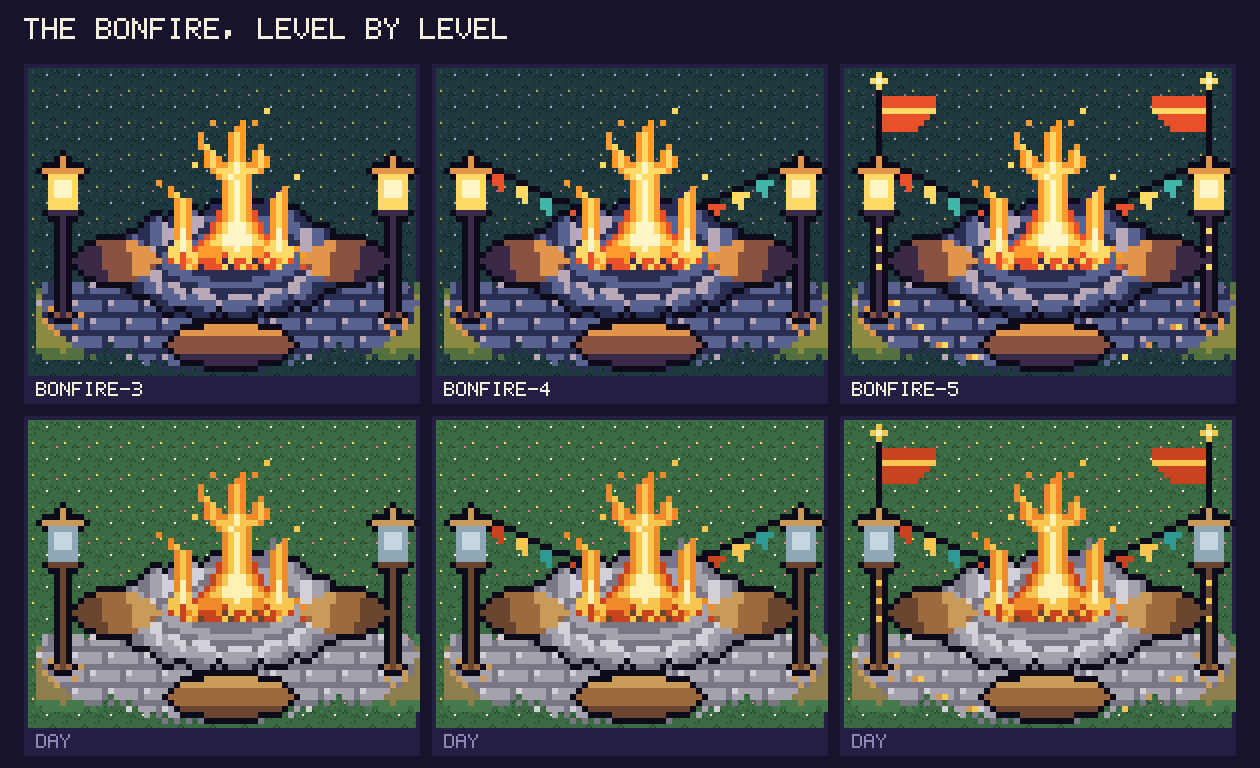
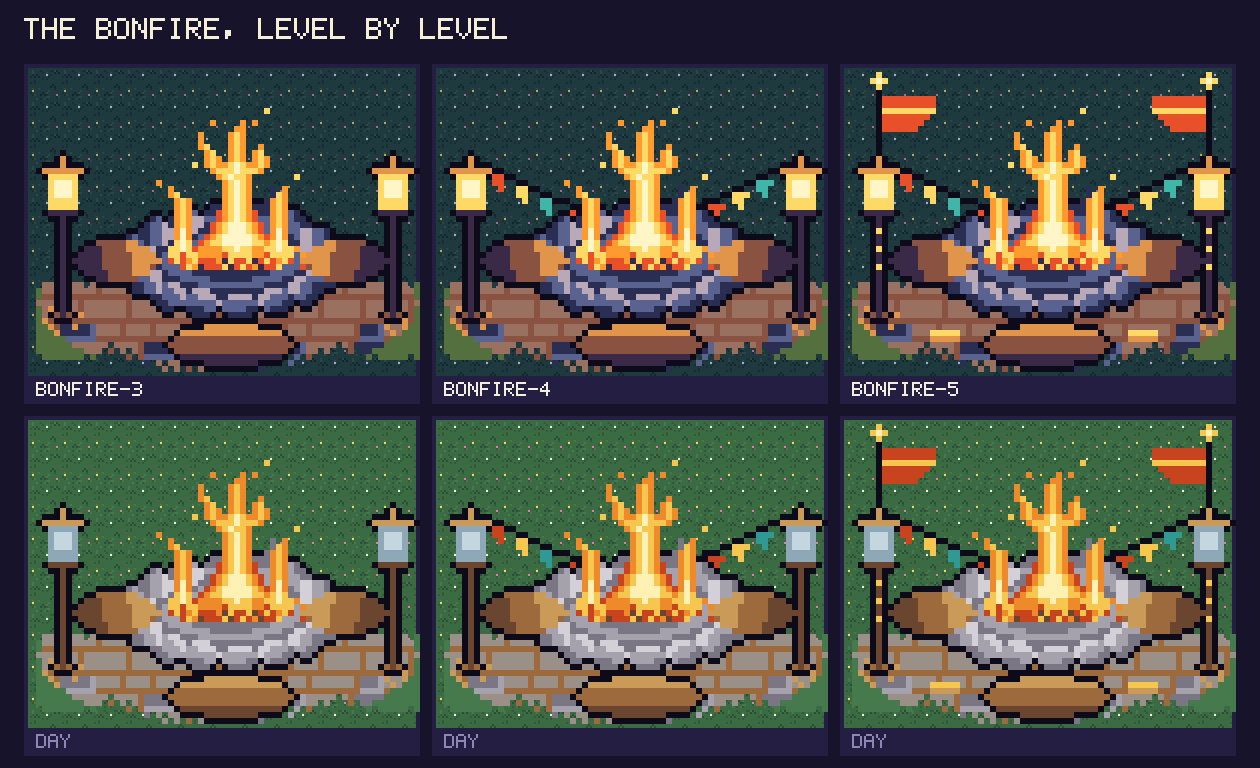
Art: Bonfire paving lit by the fire (warm flagstones near fire and lamps, irregular layout), gold inlays
Claude-Session: https://claude.ai/code/session_01TqJ8tUAM4Muj4eb7wE4uc8

diff --git a/apps/activity/src/sprites/concepts/valley-levels-bonfire.ts b/apps/activity/src/sprites/concepts/valley-levels-bonfire.ts
@@ -85,6 +85,7 @@ const NIGHT_PALETTE: Readonly<Record<string, string>> = {
   G: '#ffd966',
   H: '#fff6c8',
   T: '#3fb6a8',
+  A: '#9a7060',
 };
 
 /** Same pixels by day: the fire stays lit, the lamp glass is unlit (as in `bonfire-grand`). */
@@ -105,6 +106,7 @@ const DAY_PALETTE: Readonly<Record<string, string>> = {
   G: '#8fa8b8',
   H: '#c4d6e0',
   T: '#2f9a94',
+  A: '#9a9088',
 };
 
 type Grid = string[][];
@@ -128,26 +130,52 @@ const GROUND = '123';
 const AIR = '.';
 
 /**
- * Level 3: the paved ring. Every bit of grass round the hearth, inside an oval, becomes flagstones laid in
- * a brick pattern (body `t`, joints `s`, a pale top-left corner `S`), so the hearth sits on a stone floor.
+ * Level 3: the paved ring. Every bit of grass round the hearth, inside an oval, becomes irregular flagstones (rows of
+ * varied height, stones of varied length, joints that never line up). Each stone is lit by what is nearest: warm (`A`
+ * body, `v` joints) beside the fire and under each lamp, a mix of warm and cold stones further out, and the dark stone
+ * (`s` body, lighter `t` joints) at the edge.
  */
 function pave(g: Grid): void {
-  for (let y = 0; y < H; y++) {
-    for (let x = 0; x < W; x++) {
-      const dx = (x - 31.5) / 31.5;
-      const dy = (y - 38) / 12.2;
-      if (dx * dx + dy * dy > 1) continue;
-      const band = Math.floor((y - 26) / 3);
-      const slab = (x + (band % 2 === 0 ? 0 : 3)) % 6;
-      const inRow = (y - 26) % 3;
-      let ch = 't';
-      if (inRow === 2 || slab === 5) ch = 's';
-      else if (inRow === 0 && slab === 0) ch = 'S';
-      put(g, x, y, ch, GROUND);
+  let seed = 7;
+  const next = (n: number): number => {
+    seed = (seed * 1103515245 + 12345) % 2147483648;
+    return Math.floor(seed / 65536) % n;
+  };
+  // lay the stones row by row: [x0, x1, y0, y1] boxes, each with its joint on its right and bottom
+  const stones: { x0: number; x1: number; y0: number; y1: number }[] = [];
+  let y = 25;
+  while (y < H) {
+    const h = 3 + next(2);
+    let x = -next(5);
+    while (x < W) {
+      const w = 4 + next(5);
+      stones.push({ x0: x, x1: x + w - 1, y0: y, y1: y + h - 1 });
+      x += w;
+    }
+    y += h;
+  }
+  const lamps = [
+    { x: 4, y: 36 },
+    { x: 59, y: 36 },
+  ];
+  for (const st of stones) {
+    const cx = (st.x0 + st.x1) / 2;
+    const cy = (st.y0 + st.y1) / 2;
+    const fire = ((cx - 32) / 21) ** 2 + ((cy - 36) / 10) ** 2;
+    const lamp = Math.min(...lamps.map((l) => Math.hypot(l.x - cx, (l.y - cy) * 1.4)));
+    const lit = Math.min(fire, (lamp / 8) ** 2);
+    const warm = lit <= 1 ? true : lit <= 2.2 ? next(2) === 0 : false;
+    for (let yy = st.y0; yy <= st.y1; yy++) {
+      for (let xx = st.x0; xx <= st.x1; xx++) {
+        const joint = yy === st.y1 || xx === st.x1;
+        const inside = ((xx - 31.5) / 31.5) ** 2 + ((yy - 38) / 12.2) ** 2 <= 1;
+        if (!inside) continue;
+        put(g, xx, yy, warm ? (joint ? 'v' : 'A') : joint ? 't' : 's', GROUND);
+      }
     }
   }
-  // the outer ring of light spill left on the grass joins the one inside it (one colour fewer; sprites keep to 16)
-  for (let y = 0; y < H; y++) for (let x = 0; x < W; x++) put(g, x, y, '2', '3');
+  // grass the paving leaves has no light spill any more (two colours fewer; sprites keep to 16)
+  for (let yy = 0; yy < H; yy++) for (let xx = 0; xx < W; xx++) put(g, xx, yy, '1', '23');
 }
 
 /**
@@ -198,19 +226,12 @@ function crown(g: Grid): void {
     }
     for (const y of [26, 29, 32]) put(g, px, y, 'y', 'w');
   }
-  const stones: readonly (readonly [number, number])[] = [
-    [10, 42],
-    [14, 45],
-    [19, 47],
-    [44, 47],
-    [49, 45],
-    [53, 42],
-    [6, 38],
-    [57, 38],
-  ];
-  for (const [x, y] of stones) {
-    put(g, x, y, 'u', 'tsS');
-    put(g, x + 1, y, 'y', 'tsS');
+  // two inlaid gold stones in the paving near the front bench (gold, with a lit lower edge)
+  for (const x0 of [13, 46]) {
+    for (let x = x0; x < x0 + 5; x++) {
+      put(g, x, 43, 'y', 'AstvS');
+      put(g, x, 44, 'u', 'AstvS');
+    }
   }
 }
 

diff --git a/docs/art/README.md b/docs/art/README.md
@@ -197,7 +197,7 @@ Status: **liked** means Misa approved the look; **draft** means he has not said 
 - **Status:** draft
 - **Requested:** 2026-11-09 (Misa, via the valley session): each valley building visibly grows level by level, 1 to 5, by day and night.
 - **Source:** `apps/activity/src/sprites/concepts/valley-levels-bonfire.ts` (draw it with `pnpm art valley-levels-bonfire`)
-- **Sheet of:** `547162cf795b`
+- **Sheet of:** `a8e56549e633`
 - Levels 1 and 2 are `valley-glow/bonfire` and `valley-glow/bonfire-grand`; levels 3 to 5 here are 64x50 like the grand hearth, drawn from its pixels, so the map spot and the scene need no change. Each level keeps everything of the one below.
 - Level 3 (bonfire-3): a paved ring. The grass round the hearth becomes flagstones in a brick pattern, so the hearth stands on a stone floor.
 - Level 4 (bonfire-4): bunting. A rope with a sag from lamp to lamp, behind the flames, with red, gold and teal pennants.
